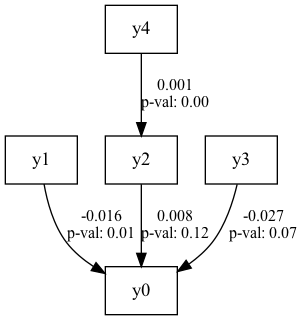
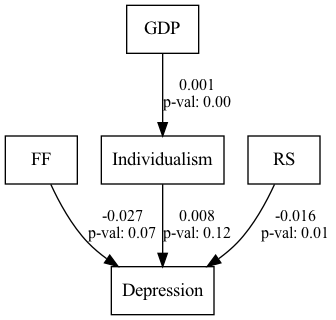
Changed labels for structured analysis model

diff --git a/analysis.py b/analysis.py
@@ -394,18 +394,16 @@ for i in importantVariables:
     mergedDatasetCleaned = fillNullsWithMeans(mentalIssueDealtyByMasterDataset, i)
 
 mappingImportantVariablesToReadableSemopy = {}
-newImportantVariables = []
+newImportantVariables = ['Depression', 'RS', 'Individualism', 'FF', 'GDP']
 for i in range(len(importantVariables)):
-    replaceString = 'y' + str(i)
-    newImportantVariables.append(replaceString)
-    mappingImportantVariablesToReadableSemopy[importantVariables[i]] = replaceString
+    mappingImportantVariablesToReadableSemopy[importantVariables[i]] = newImportantVariables[i]
 
 
 mergedDatasetCleaned = mergedDatasetCleaned.rename(columns=mappingImportantVariablesToReadableSemopy)
 
 desc = f"""
-y0 ~  y1 + y3 + y2
-y2 ~ y4
+Depression ~  RS + FF + Individualism
+Individualism ~ GDP
 """
 
 model = sm.Model(desc)
